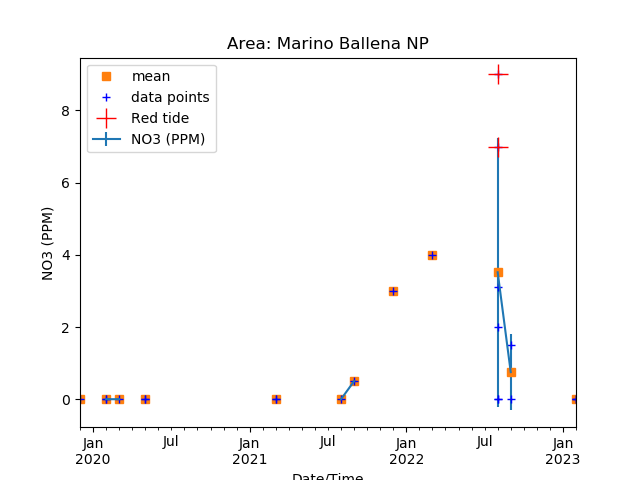
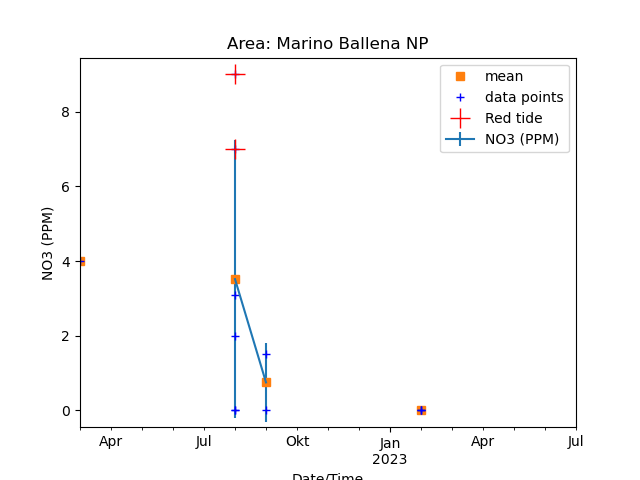
Neue Plots

diff --git a/plot_w_statistcs.py b/plot_w_statistcs.py
@@ -13,6 +13,7 @@ currentDir = os.getcwd()
 
 pd.to_datetime(df['Date'])
 # find different areas
+timeFilteredFrame = df[(df['Date']>'2022-01-03') & (df['Date']<'2024-01-01')]
 area_frame = df['Area'].unique()
 print (area_frame)
 colors ={'yes':'red', 'no':'blue', 'Yes': 'red','No':'blue'}
@@ -29,10 +30,6 @@ for anarea in area_frame:
     for col in columnnamelist:
     
         areaframe = df[df['Area']==anarea]
-        if areaframe.dropna().empty:
-            print ("Empty frame "+ str(anarea))
-            continue
-        
         areaframe.set_index('Date',drop=False, inplace=True)
         red_tide_yes = areaframe[areaframe["Red tide ?"]=='Yes']
         print (red_tide_yes)
